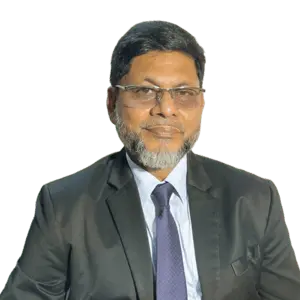
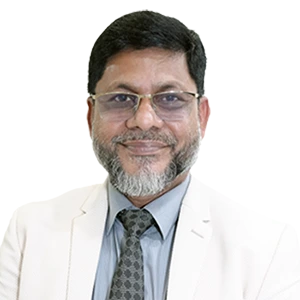
Mirpur bm picture changed

diff --git a/src/components/HomeContent.jsx b/src/components/HomeContent.jsx
@@ -7,7 +7,8 @@ import video from "../assets/contacts.mp4";
 import { styles } from "../styles";
 import "@fontsource/ubuntu";
 import { Link } from "react-router-dom";
-
+import { FaPhoneAlt } from "react-icons/fa";
+import { MdLocalHospital } from "react-icons/md";
 const Counter = ({ n, suffix = "", suffixExt = "" }) => {
   const countRef = useRef(null);
   const [isVisible, setIsVisible] = useState(false);
@@ -239,9 +240,9 @@ const HomeContent = () => {
   return (
     <div className="relative pt-20 fontFamily-ubuntu">
       <div className="overflow-hidden mt-[-140px] py-24 sm:py-32">
-        <div className="mx-auto max-w-7xl">
-          <div className="flex flex-wrap justify-center items-center py-5">
-            <div className="grid grid-cols-2 lg:grid-cols-5 md:grid-cols-3 gap-4 mx-auto">
+        <div className="mx-auto max-w-7xl px-4 sm:px-6 lg:px-8">
+          <div className="flex justify-center items-center py-6">
+            <div className="grid grid-cols-1 sm:grid-cols-2 md:grid-cols-3 lg:grid-cols-4 xl:grid-cols-5 gap-6 w-full">
               {stats.map((stat, index) => (
                 <StatCard key={index} {...stat} />
               ))}
